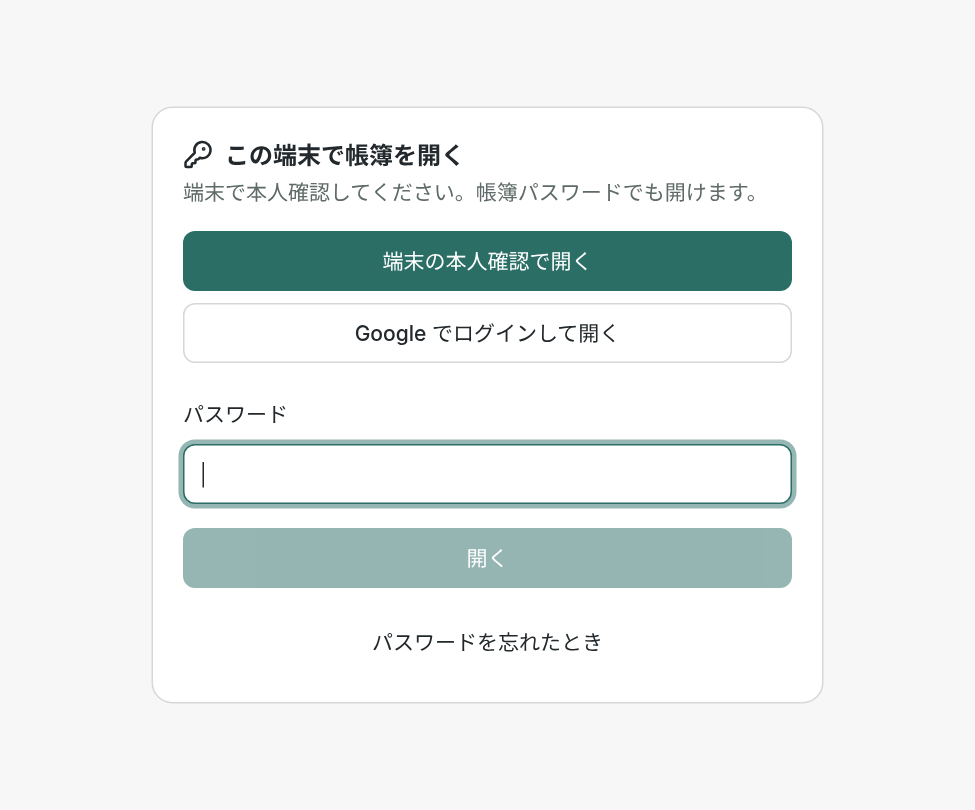
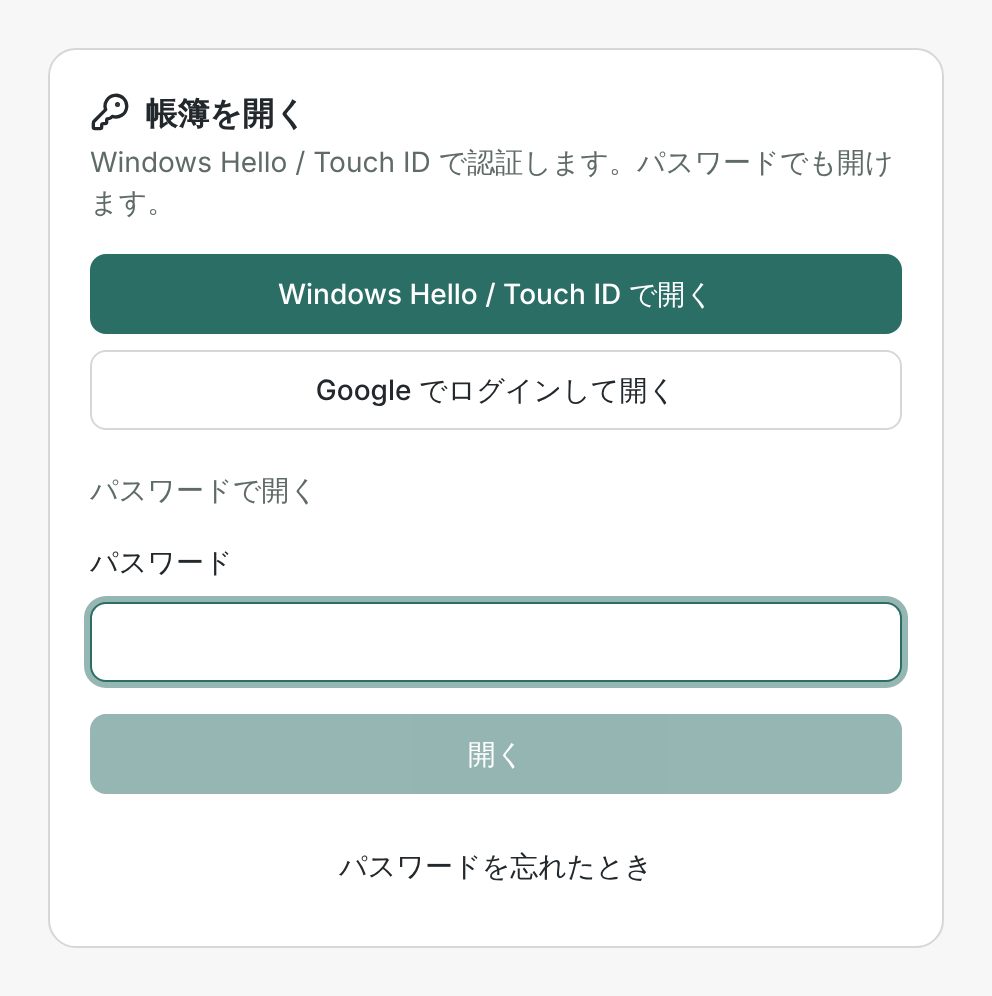
端末ログイン設定の注意書きを表示し、PR 用の画面キャプチャを撮り直す
- 設定画面に「パスワードの変更・復元で設定が解除される」旨と、パスワード欄の説明を出す
  （前のコミットで文言だけ足し、画面への表示が抜けていた）
- 最新の文言で画面キャプチャを撮り直し、ロック中の起動画面を追加する

Claude-Session: https://claude.ai/code/session_01DtZQEr8qSzp6v6fL5NS58X

diff --git a/src/features/security/account-login.tsx b/src/features/security/account-login.tsx
@@ -74,7 +74,8 @@ export function AccountLoginSettings() {
 				)}
 				{google || microsoft || linked ? (
 					<>
-						<Field label={t("devicePassword")}>
+						<p className="text-muted-foreground text-sm">{t("deviceNote")}</p>
+						<Field label={t("devicePassword")} hint={t("devicePasswordHint")}>
 							<Input
 								type="password"
 								autoComplete="current-password"
